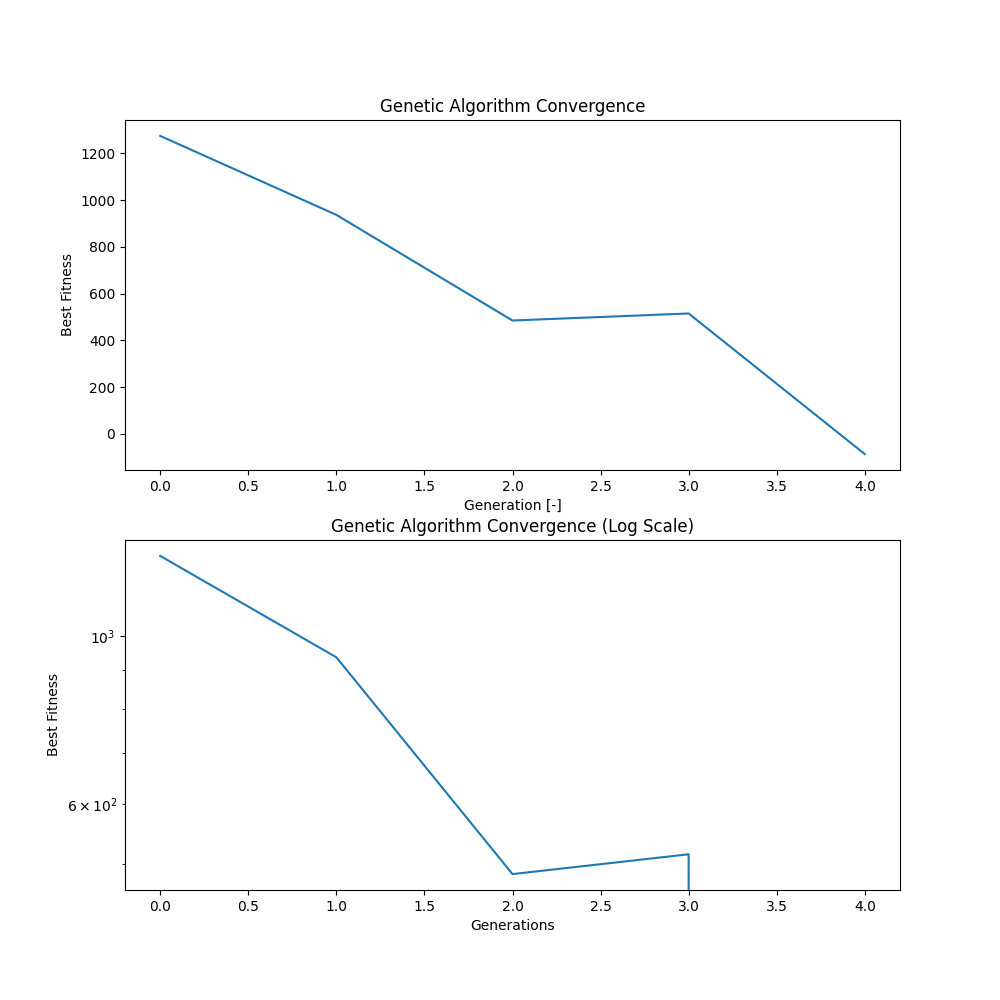
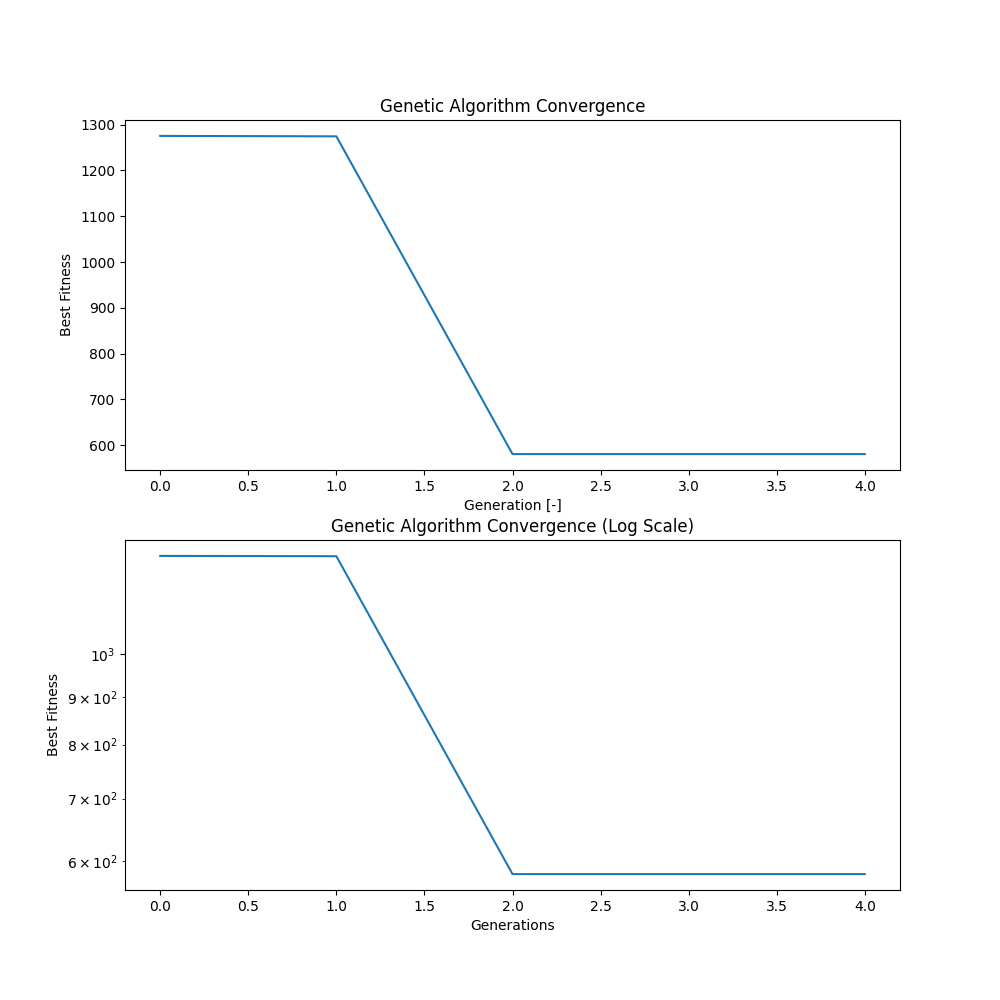
about to update tqdm bar

diff --git a/src/evolutionary_algorithms/genetic_algorithm.py b/src/evolutionary_algorithms/genetic_algorithm.py
@@ -1,4 +1,4 @@
-import numpy as np
+from tqdm import tqdm
 import matplotlib.pyplot as plt
 import random
 
@@ -87,6 +87,29 @@ class GeneticAlgorithm:
                 if random.random() < self.mutation_rate:
                     individual[i] = random.uniform(self.bounds[i][0], self.bounds[i][1])
         return offspring
+    
+    def step_genetic_algorithm(self):
+        # for islands genetic algorithm only
+        self.evaluate_population()
+            
+        # Sort population based on fitness (ascending order)
+        sorted_population = [x for _, x in sorted(zip(self.fitness_scores, self.population))]
+        sorted_fitness_scores = sorted(self.fitness_scores)
+
+        # Select the elite individuals
+        elites = sorted_population[:self.elite_size]
+
+        # Perform selection, crossover, and mutation on the rest
+        parents = self.select_parents()
+        offspring = self.crossover(parents)
+        offspring = self.mutate(offspring)
+        
+        # Combine elites with offspring to form the new population
+        self.population = elites + offspring
+        
+        self.best_fitness = min(sorted_fitness_scores)
+        self.best_individual = sorted_population[sorted_fitness_scores.index(self.best_fitness)]
+
 
     def run_genetic_algorithm(self, print_bool=False):
         self.initialize_population()
@@ -94,7 +117,10 @@ class GeneticAlgorithm:
         best_fitness_array = []
         best_individual_array = []
         
-        for generation in range(self.generations):
+        # Create tqdm progress bar with dynamic description
+        pbar = tqdm(range(self.generations), desc='Running Genetic Algorithm')
+        
+        for generation in pbar:
             self.evaluate_population()
             
             # Sort population based on fitness (ascending order)
@@ -116,6 +142,9 @@ class GeneticAlgorithm:
             best_individual = sorted_population[sorted_fitness_scores.index(best_fitness)]
             best_fitness_array.append(best_fitness)
             best_individual_array.append(best_individual)
+            
+            # Update tqdm description with best fitness
+            pbar.set_description(f"Running GA - Best Fitness: {best_fitness:.6e}")
             
             if print_bool:
                 print(f"Generation {generation}: Best Fitness = {best_fitness}")
@@ -198,9 +227,13 @@ class IslandGeneticAlgorithm(GeneticAlgorithm):
         # Initialise islands i,e. an instance of the GeneticAlgorithm class for each island
         for island in range(self.num_islands):
             self.islands.append(GeneticAlgorithm(self.GA_params, self.bounds, self.model))
-        for generation in range(self.generations):
+        
+        # Create tqdm progress bar with dynamic description
+        pbar = tqdm(range(self.generations), desc='Running Island based genetic algorithm')
+        
+        for generation in pbar:
             for island in self.islands:
-                island.run_genetic_algorithm()
+                island.step_genetic_algorithm()
 
             if generation % self.migration_interval == 0:
                 self.islands = self.migrate()
@@ -215,6 +248,9 @@ class IslandGeneticAlgorithm(GeneticAlgorithm):
             # Get the best individual from the island with the best fitness
             best_individual = self.islands[best_fitness_index].best_individual
 
+            # Update tqdm description with best fitness
+            pbar.set_description(f"Running Island GA - Best Fitness: {best_fitness:.6e}")
+            
             if print_bool:
                 print(f"Generation {generation}: Best Fitness = {best_fitness}")
 

diff --git a/src/evolutionary_algorithms/evolutionary_algorithms.py b/src/evolutionary_algorithms/evolutionary_algorithms.py
@@ -57,7 +57,6 @@ class EvolutionaryAlgorithms():
         evolutionary_algorithm.plot_convergence(self.model_name)
 
     def run_genetic_algorithm(self):
-        print("Running Genetic Algorithm")
         best_solution_GA, best_value_GA = self.genetic_algorithm.run_genetic_algorithm(print_bool=self.print_bool)
         
         self.results['genetic_algorithm']['best_solution'] = best_solution_GA
@@ -68,7 +67,6 @@ class EvolutionaryAlgorithms():
         self.update_results_file()
 
     def run_island_genetic_algorithm(self):
-        print("Running Island Genetic Algorithm")
         best_solution_IGA, best_value_IGA = self.island_genetic_algorithm.run_island_genetic_algorithm(print_bool=True)
         
         self.results['island_genetic_algorithm']['best_solution'] = best_solution_IGA
@@ -79,7 +77,6 @@ class EvolutionaryAlgorithms():
         self.update_results_file()
 
     def run_particle_swarm_optimisation(self):
-        print("Runing Particle Swarm Optimization")
         best_solution_PSO, best_value_PSO = self.particle_swarm_optimisation.run(print_bool=True)
         self.results['particle_swarm_optimisation']['best_solution'] = best_solution_PSO
         self.results['particle_swarm_optimisation']['best_value'] = best_value_PSO
@@ -89,7 +86,6 @@ class EvolutionaryAlgorithms():
         self.update_results_file()
 
     def run_particle_subswarm_optimisation(self):
-        print("Running Particle Swarm Optimization with Subswarms")
         best_solution_PSO_subswarms, best_value_PSO_subswarms = self.particle_subswarm_optimisation.run(print_bool=True)
 
         self.results['particle_subswarm_optimisation']['best_solution'] = best_solution_PSO_subswarms

diff --git a/src/evolutionary_algorithms/particle_swarm_optimisation.py b/src/evolutionary_algorithms/particle_swarm_optimisation.py
@@ -1,6 +1,7 @@
 import random
 import numpy as np
 import matplotlib.pyplot as plt
+from tqdm import tqdm                                                                                                                       
 
 
 class ParticleSwarmOptimization:
@@ -83,7 +84,7 @@ class ParticleSwarmOptimization:
         return self.w_start - (self.w_start - self.w_end) * generation / self.generations
     
     def run(self, print_bool=True):
-        for generation in range(self.generations):
+        for generation in tqdm(range(self.generations), desc = 'Running Particle Swarm Optimisation'):
             for particle in self.swarm:
                 fitness = self.evaluate_particle(particle)
                 if fitness < self.global_best_fitness:
@@ -163,7 +164,7 @@ class ParticleSwarmOptimization_Subswarms(ParticleSwarmOptimization):
             self.swarms.append(swarm)
 
     def run(self, print_bool=True):
-        for generation in range(self.generations):
+        for generation in tqdm(range(self.generations), desc='Particle Swarm Optimisation with Subswarms'):
             local_best_positions = []
             local_best_fitnesses = []
 

diff --git a/configs/evolutionary_algorithms_config.py b/configs/evolutionary_algorithms_config.py
@@ -1,6 +1,6 @@
 genetic_algorithm_params = {
-    'population_size' : 100,
-    'generations' : 75,
+    'population_size' : 25,
+    'generations' : 5,
     'crossover_rate' : 0.75,
     'mutation_rate' : 0.05,
     'fitness_threshold' : -150,
@@ -10,8 +10,8 @@ genetic_algorithm_params = {
 }
 
 pso_params = {
-    'pop_size' : 1000,
-    'generations' : 50,
+    'pop_size' : 50,
+    'generations' : 5,
     'c1' : 1,
     'c2' : 1,
     'w_start' : 0.9,

diff --git a/main_ea.py b/main_ea.py
@@ -1,6 +1,6 @@
 from src.evolutionary_algorithms.endo_ascent_EA import endo_ascent_EA
 
-algorithm_name = 'particle_subswarm_optimisation' # genetic_algorithm, island_genetic_algorithm,
+algorithm_name = 'all' # genetic_algorithm, island_genetic_algorithm,
                                      # particle_swarm_optimisation, particle_subswarm_optimisation
                                      # all
 _ = endo_ascent_EA(algorithm_name)
